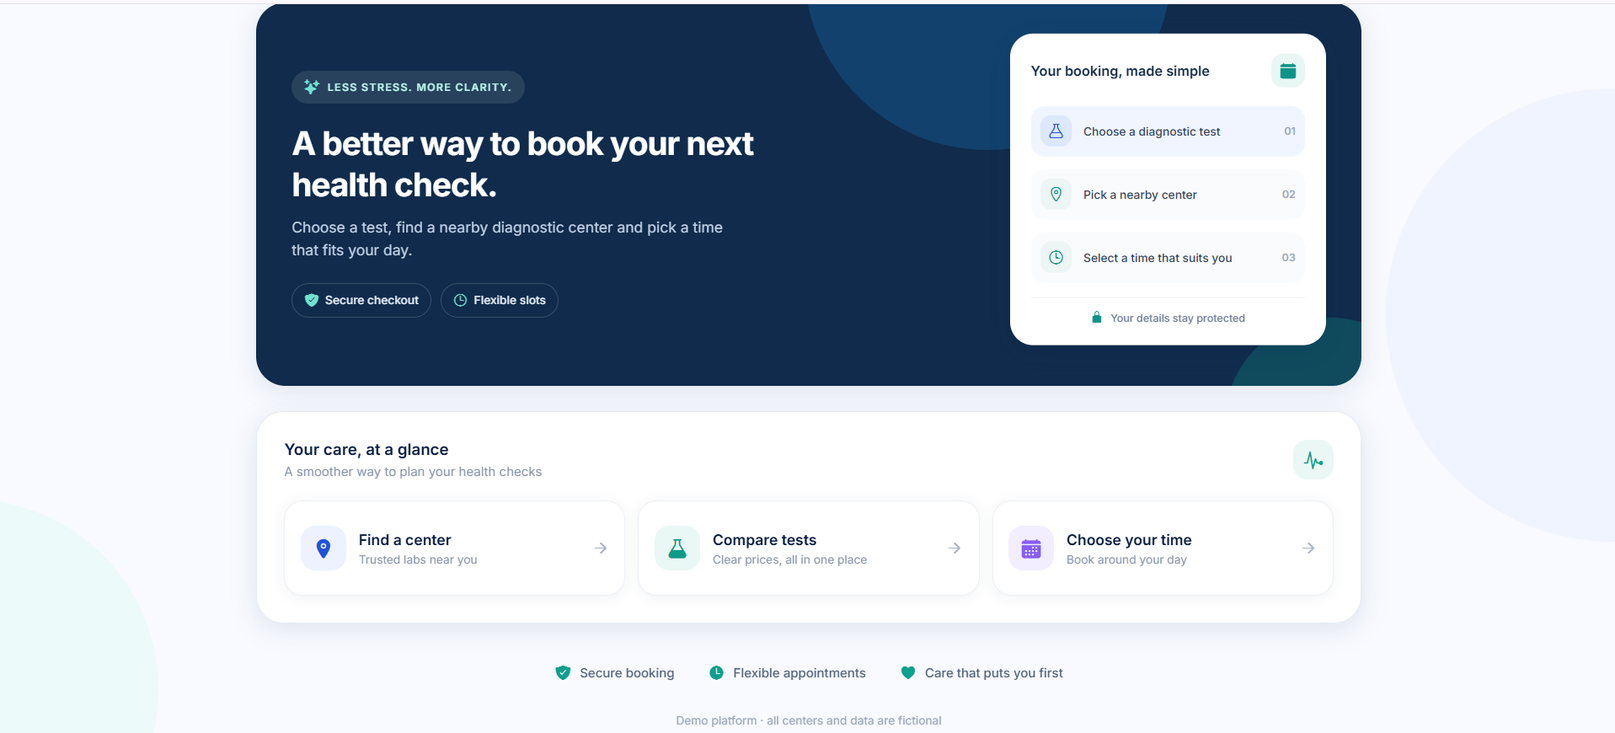
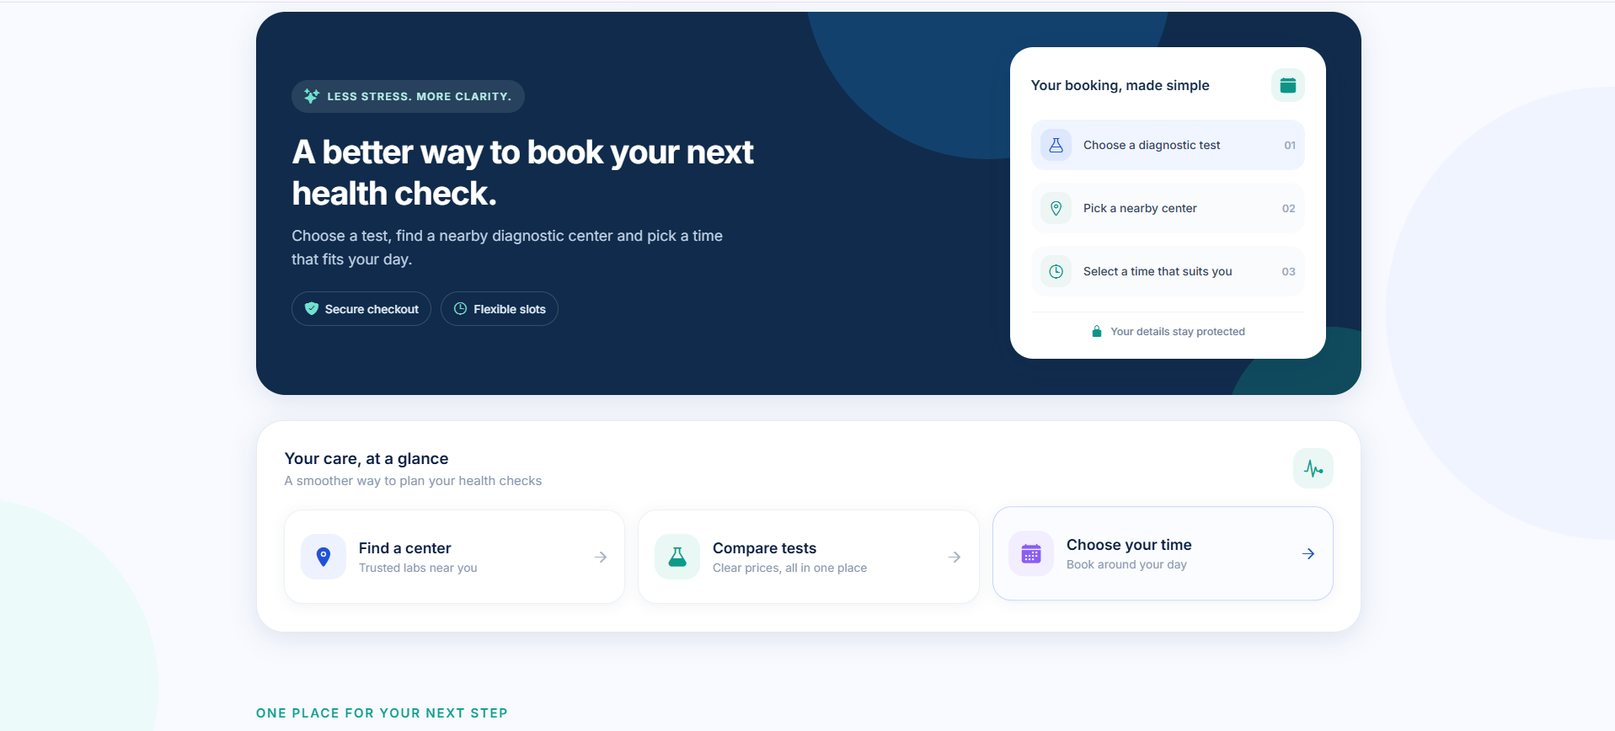
Expand healthcare booking frontend

diff --git a/frontend/src/screens/Auth.tsx b/frontend/src/screens/Auth.tsx
@@ -37,6 +37,7 @@ export function WelcomeScreen() {
         <View style={{ position: 'absolute', width: 360, height: 360, borderRadius: 180, backgroundColor: '#E7FAF7', top: 470, left: -210, opacity: 0.7 }} />
       </View>
       <ScrollView contentContainerStyle={{ flexGrow: 1 }} showsVerticalScrollIndicator={false}>
+        <View style={{ width: '100%', alignSelf: 'center' }}>
         <View style={{ width: '100%', maxWidth: 1320, alignSelf: 'center', paddingHorizontal: width < 600 ? 20 : 48 }}>
           <View style={{ minHeight: 88, flexDirection: 'row', alignItems: 'center', justifyContent: 'space-between', borderBottomWidth: 1, borderBottomColor: '#E9EDF5' }}>
             <View style={{ flexDirection: 'row', alignItems: 'center', gap: 11 }}>
@@ -52,8 +53,8 @@ export function WelcomeScreen() {
 
           <View style={{ alignItems: 'center', paddingTop: wide ? 62 : 42, paddingBottom: 35 }}>
             <View style={{ flexDirection: 'row', gap: 8, alignItems: 'center', borderWidth: 1, borderColor: '#CBD8FF', backgroundColor: '#F0F4FF', borderRadius: 999, paddingHorizontal: 15, paddingVertical: 9 }}><View style={{ width: 7, height: 7, borderRadius: 4, backgroundColor: colors.teal }} /><Text style={{ color: colors.primary, fontFamily: 'Inter_600SemiBold', fontSize: 11, letterSpacing: 1.1 }}>YOUR HEALTH, ONE SIMPLE BOOKING</Text></View>
-            <Text accessibilityRole="header" style={{ color: colors.navy900, fontFamily: 'Inter_700Bold', fontSize: width > 1150 ? 65 : width > 700 ? 52 : width < 390 ? 35 : 40, lineHeight: width > 1150 ? 75 : width > 700 ? 62 : width < 390 ? 43 : 49, letterSpacing: width < 600 ? -1.5 : -2.5, textAlign: 'center', maxWidth: 1050, marginTop: 26 }}>Healthcare Diagnostic <Text nativeID="medibook-heading-gradient" style={{ color: colors.primary }}>Booking &amp; Management Platform</Text></Text>
-            <Text style={{ textAlign: 'center', color: colors.textMuted, fontFamily: 'Inter_400Regular', fontSize: width > 700 ? 18 : 15, lineHeight: width > 700 ? 29 : 24, maxWidth: 650, marginTop: 18 }}>Find trusted diagnostic centers, compare tests and book a time that works for you — all in one calm, secure place.</Text>
+            <Text accessibilityRole="header" style={{ color: colors.navy900, fontFamily: 'Inter_700Bold', fontWeight: '900', fontSize: width > 1150 ? 66 : width > 700 ? 56 : width < 390 ? 37 : 43, lineHeight: width > 1150 ? 78 : width > 700 ? 67 : width < 390 ? 46 : 53, letterSpacing: width < 600 ? -0.7 : -1.5, textAlign: 'center', maxWidth: 1120, marginTop: 26 }}>Healthcare Diagnostic{'\n'}<Text nativeID="medibook-heading-gradient" style={{ color: colors.primary, fontFamily: 'Inter_700Bold', fontWeight: '900' }}>Booking &amp; Management Platform</Text></Text>
+            <Text style={{ textAlign: 'center', color: colors.textMuted, fontFamily: 'Inter_400Regular', fontSize: width > 700 ? 18 : 15, lineHeight: width > 700 ? 29 : 24, maxWidth: 650, marginTop: 18 }}>Compare diagnostic tests and nearby centers, see available times, and book your visit in a few simple steps.</Text>
             <View style={{ flexDirection: width < 430 ? 'column' : 'row', gap: 12, marginTop: 27, width: width < 430 ? '100%' : undefined, justifyContent: 'center' }}>
               <Pressable onPress={() => nav.navigate('Register')} accessibilityRole="button" {...hoverHandlers('hero-cta')} style={({ pressed }) => [{ backgroundColor: colors.primary, minHeight: 58, borderRadius: 17, paddingHorizontal: 27, flexDirection: 'row', alignItems: 'center', justifyContent: 'center', gap: 12, ...elevation.raised, transform: [{ translateY: hovered === 'hero-cta' ? -3 : 0 }, { scale: pressed ? 0.985 : 1 }] }]}><Text style={{ color: colors.white, fontFamily: 'Inter_700Bold', fontSize: 16 }}>Get started</Text><Ionicons name="arrow-forward" size={19} color={colors.white} /></Pressable>
               <Pressable onPress={() => nav.navigate('Login')} accessibilityRole="button" {...hoverHandlers('sign-in')} style={({ pressed }) => [{ backgroundColor: colors.white, borderWidth: 1, borderColor: '#DDE4F0', minHeight: 58, borderRadius: 17, paddingHorizontal: 27, flexDirection: 'row', alignItems: 'center', justifyContent: 'center', gap: 10, transform: [{ translateY: hovered === 'sign-in' ? -2 : 0 }, { scale: pressed ? 0.985 : 1 }] }]}><Text style={{ color: colors.navy900, fontFamily: 'Inter_600SemiBold', fontSize: 16 }}>I have an account</Text></Pressable>
@@ -96,10 +97,114 @@ export function WelcomeScreen() {
             </View>
           </View>
 
-          <View style={{ flexDirection: width < 600 ? 'column' : 'row', justifyContent: 'center', alignItems: 'center', gap: width < 600 ? 10 : 32, paddingVertical: 12, paddingBottom: 30 }}>
-            {[{ icon: 'shield-checkmark' as const, text: 'Secure booking' }, { icon: 'time' as const, text: 'Flexible appointments' }, { icon: 'heart' as const, text: 'Care that puts you first' }].map((item) => <View key={item.text} style={{ flexDirection: 'row', alignItems: 'center', gap: 8 }}><Ionicons name={item.icon} size={16} color={colors.teal} /><Text style={{ color: colors.textMuted, fontFamily: 'Inter_500Medium', fontSize: 12 }}>{item.text}</Text></View>)}
+          <View style={{ width: '100%', maxWidth: 1050, alignSelf: 'center', paddingVertical: width < 600 ? 24 : 44, marginBottom: 18 }}>
+            <Text style={{ fontFamily: 'Inter_600SemiBold', fontSize: 12, letterSpacing: 1.4, color: colors.teal }}>ONE PLACE FOR YOUR NEXT STEP</Text>
+            <Text style={{ fontFamily: 'Inter_700Bold', fontSize: width < 600 ? 30 : 40, lineHeight: width < 600 ? 38 : 50, color: colors.navy900, marginTop: 8 }}>Explore care with confidence.</Text>
+            <Text style={{ fontFamily: 'Inter_400Regular', fontSize: width < 600 ? 15 : 17, lineHeight: width < 600 ? 24 : 28, color: colors.textMuted, maxWidth: 760, marginTop: 12 }}>From routine lab work to imaging and preventive checkups, MediBook helps you understand your options and organize the details of a visit.</Text>
+            <View style={{ flexDirection: 'row', flexWrap: 'wrap', gap: 14, marginTop: 24 }}>
+              {[
+                { icon: 'flask-outline' as const, tint: colors.primary, bg: '#EEF2FF', title: 'Pathology', text: 'Browse blood work and other laboratory tests offered by diagnostic centers.' },
+                { icon: 'scan-outline' as const, tint: '#7448C8', bg: '#F2EDFC', title: 'Radiology', text: 'Explore imaging services and review center details before choosing.' },
+                { icon: 'shield-checkmark-outline' as const, tint: colors.teal, bg: '#E9F8F5', title: 'Preventive care', text: 'Find checkups designed to help you plan routine health screening.' },
+                { icon: 'pulse-outline' as const, tint: '#B56A16', bg: '#FFF4E4', title: 'General diagnostics', text: 'See a range of diagnostic services together in one searchable catalog.' },
+              ].map((item) => <View key={item.title} style={{ width: width < 600 ? '100%' : '48.5%', flexGrow: 1, minHeight: 160, flexDirection: 'row', gap: 15, padding: width < 600 ? 18 : 22, borderRadius: 20, backgroundColor: colors.white, borderWidth: 1, borderColor: '#E8EDF5', ...elevation.card }}>
+                <View style={{ width: 48, height: 48, flexShrink: 0, borderRadius: 15, backgroundColor: item.bg, alignItems: 'center', justifyContent: 'center' }}><Ionicons name={item.icon} size={24} color={item.tint} /></View>
+                <View style={{ flex: 1 }}><Text style={{ fontFamily: 'Inter_600SemiBold', fontSize: 18, color: colors.navy900 }}>{item.title}</Text><Text style={{ fontFamily: 'Inter_400Regular', fontSize: 14, lineHeight: 22, color: colors.textMuted, marginTop: 8 }}>{item.text}</Text></View>
+              </View>)}
+            </View>
           </View>
-          <Text style={{ textAlign: 'center', color: '#9AA6B8', fontFamily: 'Inter_400Regular', fontSize: 11, paddingBottom: 22 }}>Demo platform · all centers and data are fictional</Text>
+
+          <View style={{ width: '100%', maxWidth: 1050, alignSelf: 'center', borderRadius: 26, backgroundColor: '#102B4B', padding: width < 600 ? 22 : 34, marginBottom: 28, overflow: 'hidden' }}>
+            <View pointerEvents="none" style={{ position: 'absolute', width: 280, height: 280, borderRadius: 140, right: -100, top: -160, backgroundColor: '#1769AA', opacity: 0.3 }} />
+            <Text style={{ fontFamily: 'Inter_600SemiBold', fontSize: 12, letterSpacing: 1.3, color: '#8EE2D7' }}>A CLEARER BOOKING JOURNEY</Text>
+            <Text style={{ fontFamily: 'Inter_700Bold', fontSize: width < 600 ? 27 : 36, lineHeight: width < 600 ? 35 : 45, color: colors.white, marginTop: 8 }}>From search to scheduled.</Text>
+            <View style={{ flexDirection: width < 700 ? 'column' : 'row', gap: 14, marginTop: 22 }}>
+              {[
+                { n: '01', icon: 'search-outline' as const, title: 'Find the right service', text: 'Search by test name or browse by diagnostic category.' },
+                { n: '02', icon: 'business-outline' as const, title: 'Compare centers', text: 'Review available centers, location, service details and pricing.' },
+                { n: '03', icon: 'calendar-outline' as const, title: 'Choose a slot', text: 'Select an available appointment time and keep the booking details handy.' },
+              ].map((step) => <View key={step.n} style={{ flex: 1, minHeight: 170, padding: 18, borderRadius: 18, backgroundColor: 'rgba(255,255,255,0.08)', borderWidth: 1, borderColor: 'rgba(255,255,255,0.12)' }}>
+                <View style={{ flexDirection: 'row', alignItems: 'center', justifyContent: 'space-between' }}><Ionicons name={step.icon} size={23} color="#8EE2D7" /><Text style={{ fontFamily: 'Inter_600SemiBold', fontSize: 13, color: '#9FB5D2' }}>{step.n}</Text></View>
+                <Text style={{ fontFamily: 'Inter_600SemiBold', fontSize: 17, color: colors.white, marginTop: 18 }}>{step.title}</Text><Text style={{ fontFamily: 'Inter_400Regular', fontSize: 13, lineHeight: 20, color: '#C0D1E5', marginTop: 7 }}>{step.text}</Text>
+              </View>)}
+            </View>
+            <Pressable onPress={() => nav.navigate('Register')} accessibilityRole="button" style={({ pressed }) => [{ alignSelf: 'flex-start', marginTop: 22, minHeight: 50, borderRadius: 14, paddingHorizontal: 20, flexDirection: 'row', alignItems: 'center', gap: 10, backgroundColor: '#35B6A6' }, pressed && { opacity: 0.85, transform: [{ scale: 0.98 }] }]}><Text style={{ fontFamily: 'Inter_600SemiBold', fontSize: 15, color: colors.white }}>Start your booking</Text><Ionicons name="arrow-forward" size={17} color={colors.white} /></Pressable>
+          </View>
+
+          <View style={{ width: '100%', maxWidth: 1050, alignSelf: 'center', flexDirection: width < 700 ? 'column' : 'row', gap: 18, paddingVertical: 16, marginBottom: 16 }}>
+            <View style={{ flex: 1, padding: width < 600 ? 20 : 28, borderRadius: 22, backgroundColor: '#EEF3FF' }}><Ionicons name="person-circle-outline" size={28} color={colors.primary} /><Text style={{ fontFamily: 'Inter_700Bold', fontSize: 22, color: colors.navy900, marginTop: 10 }}>For patients</Text><Text style={{ fontFamily: 'Inter_400Regular', fontSize: 14, lineHeight: 22, color: colors.textMuted, marginTop: 8 }}>Keep appointments organized, review your upcoming visits and find diagnostic services that fit your needs.</Text></View>
+            <View style={{ flex: 1, padding: width < 600 ? 20 : 28, borderRadius: 22, backgroundColor: '#EAF8F5' }}><Ionicons name="medkit-outline" size={28} color={colors.teal} /><Text style={{ fontFamily: 'Inter_700Bold', fontSize: 22, color: colors.navy900, marginTop: 10 }}>For care teams</Text><Text style={{ fontFamily: 'Inter_400Regular', fontSize: 14, lineHeight: 22, color: colors.textMuted, marginTop: 8 }}>Staff can manage diagnostic services and appointments through dedicated team tools after signing in.</Text></View>
+          </View>
+
+          <View style={{ width: '100%', maxWidth: 1050, alignSelf: 'center', paddingTop: 26, paddingBottom: 42 }}>
+            <Text style={{ fontFamily: 'Inter_600SemiBold', fontSize: 12, letterSpacing: 1.3, color: colors.teal }}>FROM FIRST SEARCH TO YOUR VISIT</Text>
+            <Text style={{ fontFamily: 'Inter_700Bold', fontSize: width < 600 ? 29 : 38, lineHeight: width < 600 ? 37 : 48, color: colors.navy900, marginTop: 8 }}>Know what to expect at every step.</Text>
+            <Text style={{ fontFamily: 'Inter_400Regular', fontSize: width < 600 ? 15 : 17, lineHeight: width < 600 ? 24 : 27, color: colors.textMuted, maxWidth: 760, marginTop: 11 }}>Booking details stay organized from the moment you start comparing services through the day you review your appointment.</Text>
+            <View style={{ flexDirection: 'row', flexWrap: 'wrap', gap: 14, marginTop: 23 }}>
+              {[
+                { icon: 'search-outline' as const, title: 'Before you book', text: 'Browse test categories, review center locations and opening hours, and compare listed service prices.' },
+                { icon: 'card-outline' as const, title: 'While booking', text: 'Choose a date and available time, confirm patient details, then review your booking summary and payment.' },
+                { icon: 'clipboard-outline' as const, title: 'After booking', text: 'Return to your appointments to check the visit time, booking reference, and current payment status.' },
+              ].map((item) => <View key={item.title} style={{ width: width < 600 ? '100%' : '31.5%', flexGrow: 1, minHeight: 178, padding: width < 600 ? 19 : 22, borderRadius: 20, backgroundColor: '#FFFFFF', borderWidth: 1, borderColor: '#E5EAF2', ...elevation.card }}>
+                <View style={{ width: 46, height: 46, borderRadius: 14, backgroundColor: '#E5F6F3', alignItems: 'center', justifyContent: 'center' }}><Ionicons name={item.icon} size={23} color="#0E8792" /></View>
+                <Text style={{ fontFamily: 'Inter_600SemiBold', fontSize: 18, color: colors.navy900, marginTop: 15 }}>{item.title}</Text>
+                <Text style={{ fontFamily: 'Inter_400Regular', fontSize: 14, lineHeight: 22, color: colors.textMuted, marginTop: 7 }}>{item.text}</Text>
+              </View>)}
+            </View>
+          </View>
+
+          <View style={{ width: '100%', maxWidth: 1050, alignSelf: 'center', paddingBottom: 46 }}>
+            <Text style={{ fontFamily: 'Inter_700Bold', fontSize: width < 600 ? 28 : 36, color: colors.navy900, marginBottom: 17 }}>A few helpful details</Text>
+            <View style={{ flexDirection: 'row', flexWrap: 'wrap', gap: 12 }}>
+              {[
+                { q: 'Do I need an account to book?', a: 'Yes. Create an account to select a slot and keep your appointment information together.' },
+                { q: 'Can I choose a diagnostic center?', a: 'Yes. Browse centers and review their location, services and listed prices before selecting one.' },
+                { q: 'Where can I find a booking afterward?', a: 'Sign in and open Appointments to review upcoming visits, booking references and payment status.' },
+                { q: 'Is MediBook a medical advice service?', a: 'No. MediBook helps organize diagnostic bookings. Ask a qualified healthcare professional about tests and results.' },
+              ].map((item) => <View key={item.q} style={{ width: width < 700 ? '100%' : '48.5%', flexGrow: 1, padding: 18, borderRadius: 16, backgroundColor: '#F1F5FA', borderWidth: 1, borderColor: '#E7EDF5' }}>
+                <Text style={{ fontFamily: 'Inter_600SemiBold', fontSize: 15, color: colors.navy900 }}>{item.q}</Text>
+                <Text style={{ fontFamily: 'Inter_400Regular', fontSize: 13, lineHeight: 21, color: colors.textMuted, marginTop: 7 }}>{item.a}</Text>
+              </View>)}
+            </View>
+          </View>
+        </View>
+
+        <View style={{ width: '100%', backgroundColor: '#0E8792', paddingVertical: width < 600 ? 42 : 58, paddingHorizontal: width < 600 ? 20 : 48, overflow: 'hidden' }}>
+          <View pointerEvents="none" style={{ position: 'absolute', width: 330, height: 330, borderRadius: 165, left: -170, bottom: -230, backgroundColor: '#FFFFFF', opacity: 0.06 }} />
+          <View pointerEvents="none" style={{ position: 'absolute', width: 280, height: 280, borderRadius: 140, right: -90, top: -190, backgroundColor: '#94F0DE', opacity: 0.2 }} />
+          <View style={{ width: '100%', maxWidth: 1320, alignSelf: 'center', alignItems: 'center' }}>
+            <Text style={{ fontFamily: 'Inter_700Bold', fontSize: width < 600 ? 30 : 42, lineHeight: width < 600 ? 38 : 52, color: colors.white, textAlign: 'center' }}>Make your next health check easier.</Text>
+            <Text style={{ fontFamily: 'Inter_400Regular', fontSize: width < 600 ? 15 : 18, lineHeight: width < 600 ? 24 : 29, color: '#DCE8FF', textAlign: 'center', maxWidth: 700, marginTop: 13 }}>Join MediBook to explore diagnostic services, compare centers, and keep your appointment details together in one place.</Text>
+            <View style={{ flexDirection: width < 430 ? 'column' : 'row', gap: 12, marginTop: 25, width: width < 430 ? '100%' : undefined }}>
+              <Pressable onPress={() => nav.navigate('Register')} accessibilityRole="button" style={({ pressed }) => [{ minHeight: 56, borderRadius: 16, paddingHorizontal: 27, backgroundColor: colors.white, flexDirection: 'row', alignItems: 'center', justifyContent: 'center', gap: 10 }, pressed && { opacity: 0.9, transform: [{ scale: 0.98 }] }]}><Text style={{ fontFamily: 'Inter_600SemiBold', fontSize: 16, color: '#0E7782' }}>Create your account</Text><Ionicons name="arrow-forward" size={18} color="#0E7782" /></Pressable>
+              <Pressable onPress={() => nav.navigate('Login')} accessibilityRole="button" style={({ pressed }) => [{ minHeight: 56, borderRadius: 16, paddingHorizontal: 27, borderWidth: 1, borderColor: 'rgba(255,255,255,0.45)', flexDirection: 'row', alignItems: 'center', justifyContent: 'center' }, pressed && { backgroundColor: 'rgba(255,255,255,0.12)' }]}><Text style={{ fontFamily: 'Inter_600SemiBold', fontSize: 16, color: colors.white }}>Sign in</Text></Pressable>
+            </View>
+          </View>
+        </View>
+
+        <View style={{ width: '100%', backgroundColor: '#0B2025', paddingHorizontal: width < 600 ? 20 : 48, paddingTop: width < 600 ? 38 : 54, paddingBottom: 25 }}>
+          <View style={{ width: '100%', maxWidth: 1320, alignSelf: 'center' }}>
+            <View style={{ flexDirection: width < 700 ? 'column' : 'row', gap: width < 700 ? 30 : 42, justifyContent: 'space-between', paddingBottom: 34 }}>
+              <View style={{ flex: 1.2, maxWidth: 340 }}>
+                <View style={{ flexDirection: 'row', alignItems: 'center', gap: 10 }}><View style={{ width: 38, height: 38, borderRadius: 13, backgroundColor: '#0E8792', alignItems: 'center', justifyContent: 'center' }}><Ionicons name="medkit" size={21} color={colors.white} /></View><Text style={{ fontFamily: 'Inter_700Bold', fontSize: 20, color: colors.white }}>Medi<Text style={{ color: '#51C7B6' }}>Book</Text></Text></View>
+                <Text style={{ fontFamily: 'Inter_400Regular', fontSize: 14, lineHeight: 23, color: '#A8B9D3', marginTop: 16 }}>A diagnostic booking and management platform to help patients find services and centers, and help care teams organize appointments.</Text>
+              </View>
+              {[
+                { heading: 'PLATFORM', links: ['Browse diagnostics', 'Find a center', 'How booking works'] },
+                { heading: 'FOR YOU', links: ['Patient appointments', 'Care team tools', 'Create an account'] },
+                { heading: 'ACCOUNT', links: ['Sign in', 'Register', 'Demo information'] },
+              ].map((group) => <View key={group.heading} style={{ flex: 1, minWidth: 140, gap: 13 }}>
+                <Text style={{ fontFamily: 'Inter_600SemiBold', fontSize: 12, letterSpacing: 1.2, color: '#7288AA', marginBottom: 3 }}>{group.heading}</Text>
+                {group.links.map((link) => <Pressable key={link} onPress={() => nav.navigate(link === 'Sign in' ? 'Login' : 'Register')} accessibilityRole="button"><Text style={{ fontFamily: 'Inter_400Regular', fontSize: 14, color: '#B6C5DC' }}>{link}</Text></Pressable>)}
+              </View>)}
+            </View>
+            <View style={{ height: 1, backgroundColor: '#28434A' }} />
+            <View style={{ flexDirection: width < 700 ? 'column' : 'row', gap: 12, justifyContent: 'space-between', alignItems: width < 700 ? 'flex-start' : 'center', paddingTop: 19 }}>
+              <Text style={{ fontFamily: 'Inter_400Regular', fontSize: 12, lineHeight: 19, color: '#7288AA' }}>© 2026 MediBook · Healthcare Diagnostic Booking &amp; Management Platform · Demo only; centers and data are fictional.</Text>
+              <View style={{ flexDirection: 'row', flexWrap: 'wrap', gap: 8 }}>{['Diagnostic tests', 'Appointment booking', 'Care team tools'].map((tag) => <View key={tag} style={{ borderWidth: 1, borderColor: '#36545A', borderRadius: 999, paddingHorizontal: 12, paddingVertical: 7 }}><Text style={{ fontFamily: 'Inter_400Regular', fontSize: 11, color: '#A7C3C4' }}>{tag}</Text></View>)}</View>
+            </View>
+          </View>
+        </View>
         </View>
       </ScrollView>
     </View>

diff --git a/frontend/src/screens/Home.tsx b/frontend/src/screens/Home.tsx
@@ -31,49 +31,86 @@ export function HomeScreen() {
           <Pressable onPress={() => nav.navigate('Profile')} accessibilityRole="button" accessibilityLabel="Open profile"><ProfileAvatar name={user?.full_name ?? ''} size={48} /></Pressable>
           <View style={{ flex: 1 }}>
             <Text style={typography.caption}>{greet}</Text>
-            <Text style={typography.title} numberOfLines={1}>{user?.full_name?.split(' ')[0]}</Text>
+            <Text style={typography.title} numberOfLines={1}>{user?.full_name?.split(' ')[0] ?? 'there'}</Text>
           </View>
         </View>
         <IconButton icon="calendar-outline" label="My appointments" onPress={() => nav.navigate('Appointments')} />
       </View>
 
-      <SearchBar value={q} onChangeText={setQ} onSubmit={() => nav.navigate('Tests', { q })} placeholder="Search tests, e.g. CBC or MRI" />
+      <View style={{ backgroundColor: colors.navy900, borderRadius: radii.xl, padding: spacing.xl, overflow: 'hidden', marginBottom: spacing.xl, ...elevation.raised }}>
+        <View pointerEvents="none" style={{ position: 'absolute', right: -36, top: -54, width: 178, height: 178, borderRadius: 89, backgroundColor: '#17366F' }} />
+        <View pointerEvents="none" style={{ position: 'absolute', right: 24, bottom: -72, width: 148, height: 148, borderRadius: 74, borderWidth: 1, borderColor: '#345084' }} />
+        <View style={{ flexDirection: 'row', alignItems: 'center', gap: 7, marginBottom: spacing.md }}>
+          <Ionicons name="heart-circle" size={19} color="#72E0D1" />
+          <Text style={{ ...typography.badge, color: '#A7EAE1', letterSpacing: 1.1 }}>YOUR HEALTH, MADE SIMPLE</Text>
+        </View>
+        <Text style={{ ...typography.display, fontSize: 32, lineHeight: 38, color: colors.white, maxWidth: 290 }}>Care that fits your day.</Text>
+        <Text style={[typography.body, { color: '#C4D1E9', marginTop: spacing.sm, maxWidth: 330 }]}>Find trusted diagnostic care, choose a time, and keep every appointment in one place.</Text>
+        <View style={{ flexDirection: 'row', gap: spacing.sm, marginTop: spacing.xl }}>
+          <Pressable onPress={() => nav.navigate('Tests')} accessibilityRole="button" style={({ pressed }) => [{ flexDirection: 'row', alignItems: 'center', gap: 8, backgroundColor: '#35B6A6', paddingHorizontal: spacing.lg, minHeight: 48, borderRadius: radii.md }, pressed && { opacity: 0.86, transform: [{ scale: 0.98 }] }]}>
+            <Text style={[typography.label, { color: colors.white }]}>Explore tests</Text><Ionicons name="arrow-forward" size={17} color={colors.white} />
+          </Pressable>
+          <Pressable onPress={() => nav.navigate('Centers')} accessibilityRole="button" style={({ pressed }) => [{ flexDirection: 'row', alignItems: 'center', gap: 7, borderColor: '#50658C', borderWidth: 1, paddingHorizontal: spacing.lg, minHeight: 48, borderRadius: radii.md }, pressed && { backgroundColor: '#17366F' }]}>
+            <Ionicons name="location-outline" size={17} color={colors.white} /><Text style={[typography.label, { color: colors.white }]}>Find a center</Text>
+          </Pressable>
+        </View>
+        <View style={{ height: 1, backgroundColor: '#31466B', marginVertical: spacing.lg }} />
+        <View style={{ flexDirection: 'row', flexWrap: 'wrap', gap: spacing.md }}>
+          {[['shield-checkmark-outline', 'Trusted providers'], ['calendar-clear-outline', 'Flexible slots'], ['document-text-outline', 'Reports in one place']].map(([icon, label]) => (
+            <View key={label} style={{ flexDirection: 'row', alignItems: 'center', gap: 6 }}><Ionicons name={icon as keyof typeof Ionicons.glyphMap} size={15} color="#72E0D1" /><Text style={[typography.caption, { color: '#D4DEF0', fontSize: 11 }]}>{label}</Text></View>
+          ))}
+        </View>
+      </View>
 
-      <SectionHeader title="Categories" />
-      <View style={{ flexDirection: 'row', gap: spacing.sm }}>
+      <SearchBar value={q} onChangeText={setQ} onSubmit={() => nav.navigate('Tests', { q })} placeholder="Search tests, e.g. CBC or MRI" />
+      <View style={{ flexDirection: 'row', alignItems: 'center', gap: 6, marginTop: spacing.sm }}><Ionicons name="sparkles-outline" size={14} color={colors.teal} /><Text style={typography.caption}>Popular: Full body checkup · Blood test · MRI</Text></View>
+
+      <SectionHeader title="Explore by category" action="All tests" onAction={() => nav.navigate('Tests')} />
+      <View style={{ flexDirection: 'row', flexWrap: 'wrap', gap: spacing.sm }}>
         {(Object.keys(CATEGORY_META) as Category[]).map((c) => {
           const m = CATEGORY_META[c];
           return (
             <Pressable key={c} onPress={() => nav.navigate('Tests', { category: c, q: '' })} accessibilityRole="button" accessibilityLabel={`${m.name} tests`}
-              style={({ pressed }) => [{ flex: 1, alignItems: 'center', paddingVertical: spacing.md, borderRadius: radii.lg, backgroundColor: m.bg, gap: 6 }, pressed && { opacity: 0.85 }]}>
-              <Ionicons name={m.icon} size={26} color={m.tint} />
-              <Text style={[typography.badge, { color: colors.navy900 }]} numberOfLines={1}>{m.name}</Text>
+              style={({ pressed }) => [{ width: '48.5%', flexGrow: 1, flexBasis: '45%', flexDirection: 'row', alignItems: 'center', gap: spacing.md, padding: spacing.lg, borderRadius: radii.lg, backgroundColor: colors.surface, borderWidth: 1, borderColor: colors.border, ...elevation.card }, pressed && { transform: [{ scale: 0.98 }], backgroundColor: m.bg }]}>
+              <View style={{ width: 44, height: 44, borderRadius: 14, alignItems: 'center', justifyContent: 'center', backgroundColor: m.bg }}><Ionicons name={m.icon} size={23} color={m.tint} /></View>
+              <View style={{ flex: 1 }}><Text style={typography.label}>{m.name}</Text><Text style={[typography.caption, { fontSize: 11 }]}>Browse tests</Text></View>
+              <Ionicons name="chevron-forward" size={17} color={colors.textFaint} />
             </Pressable>
           );
         })}
       </View>
 
-      <SectionHeader title="Upcoming appointment" action={up ? 'See all' : undefined} onAction={() => nav.navigate('Appointments')} />
+      <SectionHeader title={up ? 'Your next visit' : 'Your care, at a glance'} action={up ? 'See all' : undefined} onAction={() => nav.navigate('Appointments')} />
       {dash.loading ? <LoadingSkeleton rows={1} height={120} /> : dash.error ? <ErrorState message={dash.error.message} onRetry={dash.reload} /> : up ? (
         <AppointmentCard appt={up} onPress={() => nav.navigate('AppointmentDetail', { id: up.id })} />
       ) : (
-        <Card style={{ backgroundColor: colors.navy900, borderColor: colors.navy900 }} onPress={() => nav.navigate('Centers')} accessibilityLabel="Book your first diagnostic test">
+        <Card style={{ backgroundColor: '#EDF7F6', borderColor: '#D4EEEA' }} onPress={() => nav.navigate('Centers')} accessibilityLabel="Book your first diagnostic test">
           <View style={{ flexDirection: 'row', alignItems: 'center', gap: spacing.md }}>
-            <View style={{ flex: 1 }}>
-              <Text style={[typography.heading, { color: colors.white }]}>Nothing booked yet</Text>
-              <Text style={[typography.body, { color: '#B8C7E6', marginTop: 4 }]}>Find a center and pick a time that suits you.</Text>
-            </View>
-            <View style={{ width: 44, height: 44, borderRadius: 22, backgroundColor: colors.teal, alignItems: 'center', justifyContent: 'center' }}><Ionicons name="arrow-forward" size={22} color={colors.white} /></View>
+            <View style={{ width: 48, height: 48, borderRadius: 16, backgroundColor: '#D6F0EC', alignItems: 'center', justifyContent: 'center' }}><Ionicons name="calendar-outline" size={24} color={colors.teal} /></View>
+            <View style={{ flex: 1 }}><Text style={typography.cardTitle}>Ready when you are</Text><Text style={[typography.caption, { marginTop: 3 }]}>Find a nearby center and book a time that works for you.</Text></View>
+            <Ionicons name="arrow-forward-circle" size={27} color={colors.teal} />
           </View>
         </Card>
       )}
 
-      <SectionHeader title="Quick actions" />
+      <SectionHeader title="A simpler way to get tested" />
       <View style={{ flexDirection: 'row', gap: spacing.sm }}>
         {[
-          { icon: 'search' as const, t: 'Find center', go: () => nav.navigate('Centers') },
-          { icon: 'flask' as const, t: 'Browse tests', go: () => nav.navigate('Tests') },
-          { icon: 'time' as const, t: 'My bookings', go: () => nav.navigate('Appointments') },
+          { n: '01', icon: 'search-outline' as const, title: 'Find care', body: 'Compare tests and nearby centers.' },
+          { n: '02', icon: 'calendar-outline' as const, title: 'Pick a time', body: 'Choose a slot that suits you.' },
+          { n: '03', icon: 'checkmark-circle-outline' as const, title: 'Stay on track', body: 'Keep your booking details handy.' },
+        ].map((step) => <View key={step.n} style={{ flex: 1, padding: spacing.md, minHeight: 142, borderRadius: radii.lg, backgroundColor: colors.surface, borderWidth: 1, borderColor: colors.border }}>
+          <View style={{ flexDirection: 'row', alignItems: 'center', justifyContent: 'space-between' }}><Ionicons name={step.icon} size={21} color={colors.primary} /><Text style={{ ...typography.badge, color: colors.textFaint }}>{step.n}</Text></View>
+          <Text style={[typography.label, { marginTop: spacing.md }]}>{step.title}</Text><Text style={[typography.caption, { marginTop: 4, fontSize: 11, lineHeight: 16 }]}>{step.body}</Text>
+        </View>)}
+      </View>
+
+      <SectionHeader title="Quick access" />
+      <View style={{ flexDirection: 'row', gap: spacing.sm }}>
+        {[
+          { icon: 'business-outline' as const, t: 'Centers', go: () => nav.navigate('Centers') },
+          { icon: 'flask-outline' as const, t: 'Tests', go: () => nav.navigate('Tests') },
+          { icon: 'time-outline' as const, t: 'Bookings', go: () => nav.navigate('Appointments') },
         ].map((x) => (
           <Pressable key={x.t} onPress={x.go} accessibilityRole="button" accessibilityLabel={x.t}
             style={({ pressed }) => [{ flex: 1, backgroundColor: colors.surface, borderRadius: radii.lg, borderWidth: 1, borderColor: colors.border, padding: spacing.md, alignItems: 'center', gap: 6, ...elevation.card }, pressed && { opacity: 0.85 }]}>
@@ -82,7 +119,7 @@ export function HomeScreen() {
         ))}
       </View>
 
-      <SectionHeader title="Centers" action="View all" onAction={() => nav.navigate('Centers', { city })} />
+      <SectionHeader title="Diagnostic centers" action="View all" onAction={() => nav.navigate('Centers', { city })} />
       <ChipRow>
         <FilterChip label="All cities" selected={!city} onPress={() => setCity(undefined)} />
         {(cities.data ?? []).map((c) => <FilterChip key={c} label={c} selected={city === c} onPress={() => setCity(c)} />)}
@@ -93,11 +130,13 @@ export function HomeScreen() {
             : <EmptyState icon="business-outline" title="No centers in this city" />}
       </View>
 
-      <SectionHeader title="Available tests" action="View all" onAction={() => nav.navigate('Tests')} />
+      <SectionHeader title="Popular diagnostic tests" action="View all" onAction={() => nav.navigate('Tests')} />
+      <Text style={[typography.caption, { marginTop: -spacing.sm, marginBottom: spacing.md }]}>Explore available services and see what fits your needs.</Text>
       <View style={{ gap: spacing.md }}>
         {tests.loading ? <LoadingSkeleton rows={2} /> : tests.error ? <ErrorState message={tests.error.message} onRetry={tests.reload} /> :
-          tests.data?.results.map((t) => <DiagnosticTestCard key={t.id} test={t} onPress={() => nav.navigate('TestDetail', { id: t.id })} />)}
+          tests.data?.results.length ? tests.data.results.map((t) => <DiagnosticTestCard key={t.id} test={t} onPress={() => nav.navigate('TestDetail', { id: t.id })} />) : <EmptyState icon="flask-outline" title="Tests will appear here" />}
       </View>
+      <View style={{ alignItems: 'center', paddingVertical: spacing.xxl, gap: 6 }}><Ionicons name="heart" size={18} color={colors.teal} /><Text style={[typography.caption, { textAlign: 'center' }]}>Here to make your next step in care feel easier.</Text></View>
     </Screen>
   );
 }
